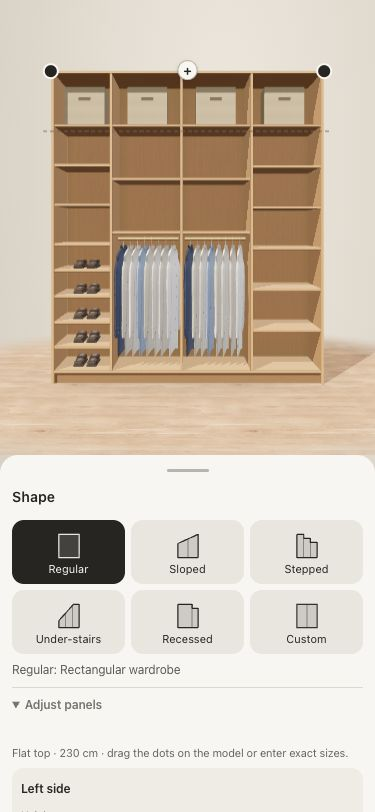
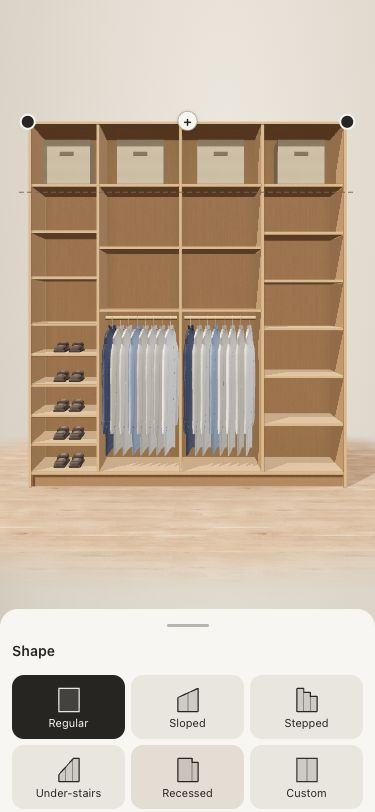
Give compact editing drawers a 75/25 scene split

diff --git a/src/presentation/editor/focused-editing.css b/src/presentation/editor/focused-editing.css
@@ -7,3 +7,21 @@
 ) :is(#view-modes,#topright,#topleft,#toolbar,#br,#hint,.mobile-feedback,.contextual-popover,.lbl.add){
  display:none!important;
 }
+
+@media (max-width:900px){
+ /* Compact editing gives the model 75% and the drawer 25% of the editor.
+    Expanded sheets and the keyboard keep their existing space requirements. */
+ #app:is(
+  .props-open:has(#left:is([data-context-section="resize"],[data-context-section="shape"])),
+  :has(:is(#pop3,#pop4)[data-context-section="resize"].show)
+ ){
+  --mobile-settings-sheet-height:25vh;
+ }
+ #app:is(
+  .props-open:has(#left:is([data-context-section="resize"],[data-context-section="shape"])[data-sheet-position="compact"]:not([data-sheet-dragging])),
+  :has(:is(#pop3,#pop4)[data-context-section="resize"].show[data-sheet-position="compact"]:not([data-sheet-dragging]))
+ ){
+  /* Safe-area padding is already inside the drawer's border-box height. */
+  --sheet:var(--panel-height);
+ }
+}

diff --git a/docs/verification/focused-editing.md b/docs/verification/focused-editing.md
@@ -4,6 +4,9 @@ Size and Shape panels hide the Studio/Wardrobe switch, Storage, global Menu, act
 internal Add item prompts and transient feedback. The model, editing handles and relevant panel remain.
 Item/divider sizing and room sizing use the same rule. Direct item resize gestures also hide chrome
 until the gesture ends. Closing a panel, swiping it away or pressing Escape restores normal controls.
+On phones the compact Size/Shape drawer uses 25% of the editor height and the model uses 75%.
+Safe-area padding is included in that drawer height. Dragging/tapping the existing handle still expands
+it for more controls, and the keyboard retains its existing accessible layout.
 The CSS derives this from existing visible-panel and gesture state, without another UI mode to reset.
 
 Escape now closes settings before navigating out of the current selection. On phones the existing
